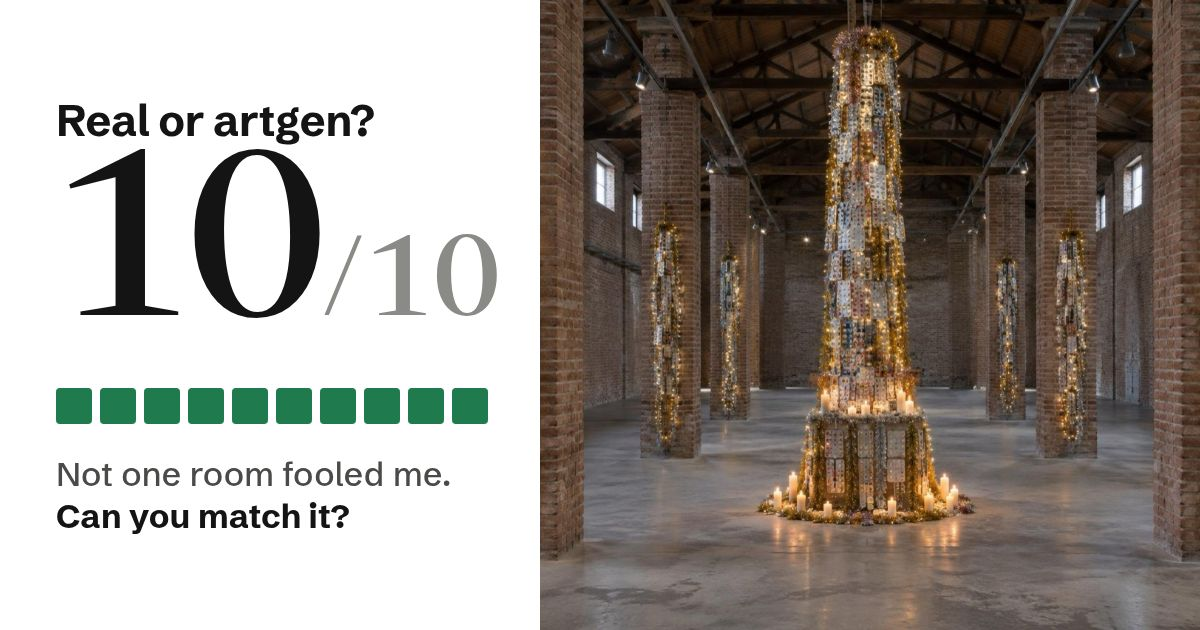
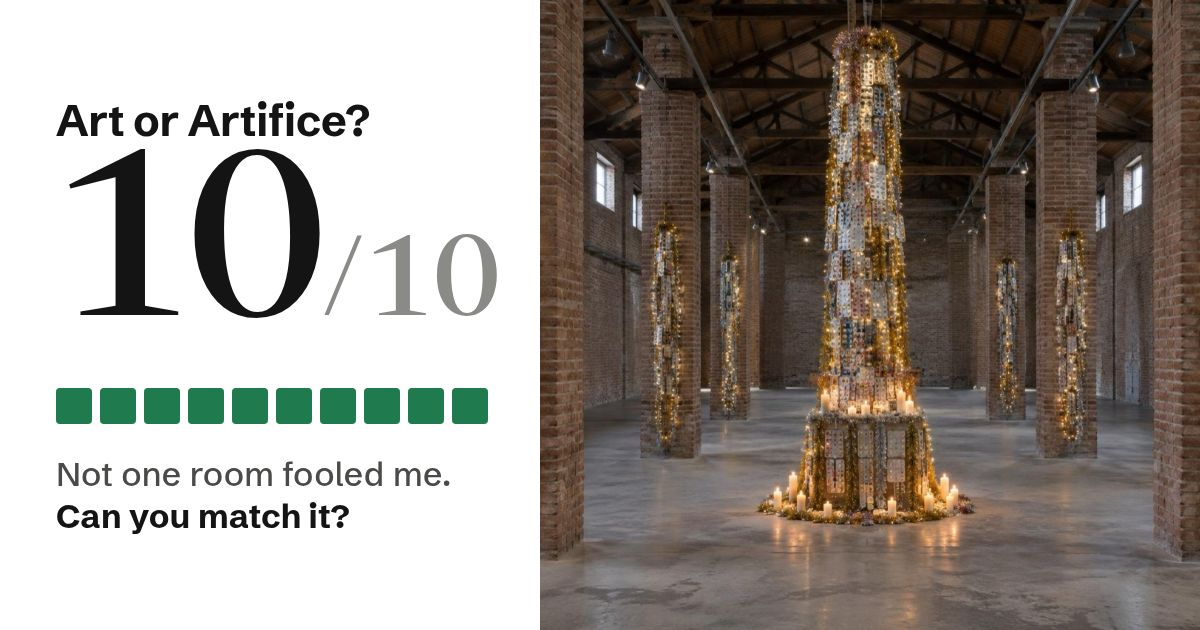
Game: rename the public game to Art or Artifice?
The page, the choice buttons, the verdicts, the wall labels, the share
text, the /s/<score> preview page and the share cards now say
"Art or Artifice?" and "AI". The Studio, the package, the API paths
and the storage keys keep the name artgen.

Changed region(s): [[0.0308, 0.1508, 0.3083, 0.2413]]

diff --git a/worker/src/index.js b/worker/src/index.js
@@ -4,7 +4,7 @@
 //   POST /api/render        {prompt} -> {url, cached, remaining}
 //   GET  /api/image/<id>    a rendered JPEG
 //
-// It also runs the daily guessing game "Real or artgen?" (rules in game.js):
+// It also runs the daily guessing game "Art or Artifice?" (rules in game.js):
 //
 //   GET  /api/game/round?player=       today's ten images and this player's answers so far
 //   POST /api/game/answer              {player, day, index, guess} -> the truth about the image at index
@@ -284,7 +284,7 @@ function sharePage(url) {
   const m = url.pathname.match(/^\/s\/(10|\d)$/);
   if (!m) return Response.redirect(`${url.origin}/game`, 302);
   const score = Number(m[1]), here = `${url.origin}/s/${score}`, image = `${url.origin}/share/${score}.jpg`;
-  const title = `I scored ${score}/10 on Real or artgen?`;
+  const title = `I scored ${score}/10 on Art or Artifice?`;
   const text = `${SHARE_HOOK[score] || ""} Ten photographs of art installations a day. Some rooms exist. AI made the others. Can you tell?`.trim();
   const html = `<!doctype html>
 <html lang="en">
@@ -293,7 +293,7 @@ function sharePage(url) {
 <title>${title}</title>
 <meta name="description" content="${text}">
 <meta property="og:type" content="website">
-<meta property="og:site_name" content="artgen">
+<meta property="og:site_name" content="Art or Artifice?">
 <meta property="og:title" content="${title}">
 <meta property="og:description" content="${text}">
 <meta property="og:url" content="${here}">
@@ -304,7 +304,7 @@ function sharePage(url) {
 <meta name="twitter:image" content="${image}">
 <meta http-equiv="refresh" content="0; url=/game">
 </head>
-<body><a href="/game">Play Real or artgen?</a></body>
+<body><a href="/game">Play Art or Artifice?</a></body>
 </html>
 `;
   return new Response(html, { headers: { "content-type": "text/html; charset=utf-8", "cache-control": "public, max-age=3600" } });
@@ -322,7 +322,7 @@ async function game(request, env, ctx, url) {
   if (!handler) return json({ error: "Not found." }, 404);
   if (request.method === "POST" && !allowedOrigin(request)) return json({ error: "Open the game to play." }, 403);
   const day = today(), round = roundFor(pool, day);
-  if (!round) return json({ error: "The game is not open yet. It needs at least six real photographs and six artgen images." }, 503);
+  if (!round) return json({ error: "The game is not open yet. It needs at least six real photographs and six AI images." }, 503);
   let body = null;
   if (request.method === "POST") {
     try { body = await request.json(); } catch { body = null; }

diff --git a/artgen/studio_static/game.js b/artgen/studio_static/game.js
@@ -55,7 +55,7 @@
       var i = round.answers.length - 1, a = round.answers[i], right = isRight(a);
       progress(i);
       $("verdict").className = "verdict " + (right ? "right" : "wrong");
-      $("verdict").textContent = (right ? "Correct. " : "Wrong. ") + (a.real ? "This room is real." : "artgen made this room.");
+      $("verdict").textContent = (right ? "Correct. " : "Wrong. ") + (a.real ? "This room is real." : "AI made this room.");
       $("label").replaceChildren(wallLabel(a));
       $("crowd").textContent = a.crowd === null ? "" : a.crowd + "% of players get this one right.";
       $("next").textContent = round.done ? "See your result" : "Next photograph";
@@ -110,7 +110,7 @@
         box.appendChild(src);
       }
     } else {
-      box.appendChild(line("who", "Generated by artgen"));
+      box.appendChild(line("who", "Generated by AI"));
       box.appendChild(line("title", r.form));
       box.appendChild(line("small", "This room does not exist. It imitates these real works:"));
       var list = el("ul");
@@ -124,7 +124,7 @@
     var li = el("li", isRight(a) ? "right" : "wrong"), img = el("img");
     img.src = round.images[i]; img.alt = "Photograph " + (i + 1); img.loading = "lazy"; img.width = 1280; img.height = 853;
     li.appendChild(img);
-    li.appendChild(el("p", "mark", (a.real ? "Real" : "artgen") + ". You said " + (a.guess === "real" ? "real" : "artgen") + "."));
+    li.appendChild(el("p", "mark", (a.real ? "Real" : "AI") + ". You said " + (a.guess === "real" ? "real" : "AI") + "."));
     li.appendChild(wallLabel(a));
     return li;
   }
@@ -140,7 +140,7 @@
 
   function shareMessage(r) {
     var squares = r.marks.map(function (right) { return right ? "🟩" : "🟥"; }).join("");
-    return "Real or artgen? #" + r.number + "\n" + squares + " " + r.score + "/" + r.total + " in " + clockTime(r.ms);
+    return "Art or Artifice? #" + r.number + "\n" + squares + " " + r.score + "/" + r.total + " in " + clockTime(r.ms);
   }
 
   function shareUrl(r) { return location.origin + "/s/" + r.score; }

diff --git a/artgen/studio_static/game.html b/artgen/studio_static/game.html
@@ -3,11 +3,11 @@
 <head>
 <meta charset="utf-8">
 <meta name="viewport" content="width=device-width, initial-scale=1">
-<title>Real or artgen?</title>
-<meta name="description" content="Ten photographs of art installations each day. Some are from real exhibitions. artgen made the others. Can you tell which is which?">
+<title>Art or Artifice?</title>
+<meta name="description" content="Ten photographs of art installations each day. Some are from real exhibitions. AI made the others. Can you tell which is which?">
 <meta property="og:type" content="website">
-<meta property="og:site_name" content="artgen">
-<meta property="og:title" content="Real or artgen?">
+<meta property="og:site_name" content="Art or Artifice?">
+<meta property="og:title" content="Art or Artifice?">
 <meta property="og:description" content="Ten photographs of art installations a day. Some rooms exist. AI made the others. Can you tell?">
 <meta property="og:url" content="/game">
 <meta property="og:image" content="/share/card.jpg">
@@ -22,8 +22,8 @@
 </head>
 <body>
 <header class="top">
-  <div class="brand"><strong>artgen</strong> Real or artgen?</div>
-  <p class="tagline">Ten photographs each day. Some rooms exist. artgen made the others.</p>
+  <div class="brand"><strong>Art or Artifice?</strong></div>
+  <p class="tagline">Ten photographs each day. Some rooms exist. AI made the others.</p>
   <div class="top-actions">
     <a class="btn ghost" href="./">Open the Studio</a>
   </div>
@@ -44,7 +44,7 @@
         <h1>Is this room real?</h1>
         <div class="choices">
           <button id="guess-real" class="choice" type="button"><span>Real</span><kbd>R</kbd></button>
-          <button id="guess-ai" class="choice" type="button"><span>artgen</span><kbd>A</kbd></button>
+          <button id="guess-ai" class="choice" type="button"><span>AI</span><kbd>A</kbd></button>
         </div>
         <p class="hint" id="round-error" role="alert"></p>
       </div>

diff --git a/artgen/studio_static/index.html b/artgen/studio_static/index.html
@@ -14,7 +14,7 @@
   <div class="brand"><strong>artgen</strong> Studio</div>
   <p class="tagline">Curate a biennial that does not exist.</p>
   <div class="top-actions">
-    <a class="btn ghost" href="game.html">Play Real or artgen?</a>
+    <a class="btn ghost" href="game.html">Play Art or Artifice?</a>
     <button id="surprise" class="btn" type="button">Surprise me</button>
     <button id="share" class="btn ghost" type="button">Copy link</button>
   </div>

diff --git a/artgen/studio_static/game.css b/artgen/studio_static/game.css
@@ -1,4 +1,4 @@
-/* Real or artgen? Uses the Studio's tokens and chrome from studio.css.
+/* Art or Artifice? Uses the Studio's tokens and chrome from studio.css.
    The photograph hangs on a wall; the answer arrives as the wall label beside it. */
 :root { --right: #1f7a4d; --wrong: #a4281f; }
 .ask h1, .score h1, .wall-label .title { font-family: "Newsreader", Georgia, serif; font-weight: 400; }

diff --git a/artgen/studio.py b/artgen/studio.py
@@ -5,7 +5,7 @@ so the browser runs the same generator as the command line. Images come from the
 
   choices()            the lists, toggles and options the Studio shows
   run(opts_json, base) generate an edition and return every page of its website
-  build(out)           write the static Studio to a folder, and the image pool of the game "Real or artgen?"
+  build(out)           write the static Studio to a folder, and the image pool of the game "Art or Artifice?"
 """
 from __future__ import annotations
 

diff --git a/README.md b/README.md
@@ -79,13 +79,13 @@ Then deploy. Run the same command after each change:
 npm run studio:deploy
 ```
 
-## The game: Real or artgen?
+## The game: Art or Artifice?
 
-The game shows one photograph of an installation at a time. You answer **Real** or **artgen**. Then the page shows the truth and a citation. For a real photograph, the citation gives the artist, the venue and the source. For an artgen image, it gives the real works that the image imitates.
+The game shows one photograph of an installation at a time. You answer **Real** or **AI**. Then the page shows the truth and a citation. For a real photograph, the citation gives the artist, the venue and the source. For an AI image, it gives the real works that the image imitates. artgen makes the AI images.
 
 - There is one round per UTC day. It has 10 photographs, the same for every player, and 4 to 6 of them are real.
 - After the round you can put a name on the leaderboard of the day and share your result. On a phone, **Share** opens the share sheet. **Post on X** opens a new post with the result. **Copy result** copies the result.
-- Keys: `R` or left arrow for Real, `A` or right arrow for artgen, `Enter` or `Space` for the next photograph.
+- Keys: `R` or left arrow for Real, `A` or right arrow for AI, `Enter` or `Space` for the next photograph.
 
 ### Play it on your computer
 
@@ -117,7 +117,7 @@ The AI images come from the image library. The real photographs come from `game/
 
 The game needs at least 6 real photographs and 6 library images. The smaller of the two sets sets the cycle: each 6 images in it give one more day before a photograph comes back. Now the 76 library images give a cycle of 12 days.
 
-The build encodes every game image again with `ffmpeg` (necessary for the game) and writes it to `studio/game/media/`. The new encoding removes the metadata, so the bytes do not show the kind. A player can still match an artgen image to the public library by how it looks. The name is a hash with the secret in `game/.key`, so the name does not show the kind either. The first build makes `game/.key`, and git ignores it. Keep it and use the same file on each computer that deploys: a new key renames every image and resets the crowd statistics. It writes the answers to `worker/src/game_pool.json`. Only the Worker reads that file, and git ignores it.
+The build encodes every game image again with `ffmpeg` (necessary for the game) and writes it to `studio/game/media/`. The new encoding removes the metadata, so the bytes do not show the kind. A player can still match an AI image to the public library by how it looks. The name is a hash with the secret in `game/.key`, so the name does not show the kind either. The first build makes `game/.key`, and git ignores it. Keep it and use the same file on each computer that deploys: a new key renames every image and resets the crowd statistics. It writes the answers to `worker/src/game_pool.json`. Only the Worker reads that file, and git ignores it.
 
 When you add or remove photographs, all rounds change, and that includes the round of the current day. Deploy such a change near midnight UTC.
 
@@ -139,7 +139,7 @@ All routes answer with JSON. A `POST` must come from the game page itself.
 The share text gives the round number, one square for each answer, the score, the time and a link:
 
 ```
-Real or artgen? #33
+Art or Artifice? #33
 🟩🟥🟩🟩🟥🟩🟩🟩🟥🟩 7/10 in 1:42
 https://<host>/s/7
 ```
@@ -264,7 +264,7 @@ artgen/            the package: gen/ (artists, titles, works, exhibition), write
 data/              archetypes, lexicon, world, title structures, real-name blocklist
 tools/             sources of data/archetypes.json and data/lexicon.json, and the share cards of the game
 library/           pre-rendered images, one per archetype, with what each one shows
-game/real/         real photographs for the game Real or artgen?, with their citations
+game/real/         real photographs for the game Art or Artifice?, with their citations
 worker/            the Cloudflare Worker: live renders and the game
 docs/research/     the research corpus, with source URLs
 biennales/         generated editions (exhibition.json and media/; site/ is build output)
